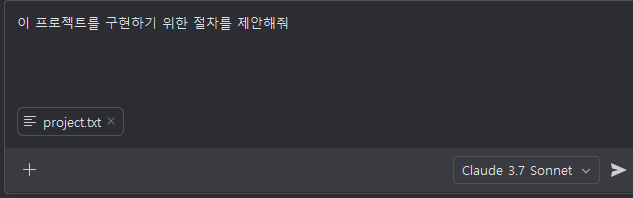
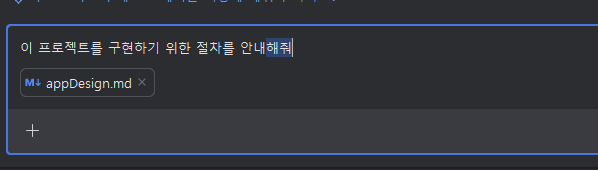
add mcp,,etc

Changed region(s): [[0.0, 0.0588, 1.0, 0.9412], [0.0, 0.0, 1.0, 0.0294]]

diff --git a/Task08/README.md b/Task08/README.md
@@ -1,0 +1,171 @@
+# Task 8: MCP (Model Context Protocol) 활용 실습
+
+## Use case: 
+- Android Studio에서 Model Context Protocol 서버를 설정하고, 실습하는 예제입니다.
+
+## 목표:
+- MCP (Model Context Protocol)의 기능을 이해하고, Android Studio에서 MCP 서버를 설정하여 활용하는 방법을 익힙니다.
+
+## Step 1: MCP (Model Context Protocol) 이해하기
+### MCP란? 
+  - [Model Context Protocol(MCP)](https://modelcontextprotocol.io/introduction)는 AI 모델이 외부 도구, 애플리케이션, 데이터 소스를 탐색하고 상호작용할 수 있도록 표준화된 방법을 제공합니다. VS Code에서 에이전트 모드로 언어 모델에 채팅 프롬프트를 입력하면, 모델은 파일 작업, 데이터베이스 접근, API 호출 등 다양한 도구를 호출하여 요청에 응답할 수 있습니다.
+  - [MCP Specification](https://modelcontextprotocol.io/specification/2025-03-26) 
+
+### MCP 구조 : 클라이언트 - 서버 구조
+  - MCP clients (like VS Code) connect to MCP servers and request actions on behalf of the AI model
+  - MCP servers provide one or more tools that expose specific functionalities through a well-defined interface
+  - The Model Context Protocol (MCP) defines the message format for communication between clients and servers, including tool discovery, invocation, and response handling
+  <img src="./img/01.png" width="500"> <br>
+  <img src="./img/mcp-stack.svg" width="500"> <br>
+
+### MCP서버의 기능
+  - [MCP서버는 아래 3가지 기능을 제공](https://modelcontextprotocol.io/specification/2025-03-26#features)합니다. 
+  - Resources: Context and data, for the user or the AI model to use
+  - Prompts: Templated messages and workflows for users
+  - Tools: Functions for the AI model to execute
+
+### MCP 개발 SDKs
+  - [java](https://modelcontextprotocol.io/sdk/java/mcp-overview/)
+  - [python-sdk](https://github.com/modelcontextprotocol/python-sdk)
+
+### MCP 서버의 예시
+  - [MCP 서버 예시](https://mcpservers.org/) 
+  - [MCP server repository](https://github.com/modelcontextprotocol/servers) <br>
+  
+  에서 다양한 MCP 서버를 확인할 수 있습니다.
+
+
+## Step 2: 안드로이드 스튜디오에서 테스트 MCP 서버 설정 (npm 패키지 설치)
+
+- [안드로이드 스튜디오에서 MCP 서버설정: GitHub도움말](https://docs.github.com/en/enterprise-cloud@latest/copilot/customizing-copilot/extending-copilot-chat-with-mcp?tool=jetbrains)을 참고하여, MCP 서버를 설정합니다.
+
+- 먼저, 안드로이드 스튜디오 우측 하단의 GitHub Copilot 아이콘을 클릭하고, 'Edit Settings'를 선택합니다. 
+  <img src="./img/02.png" width="300"> <br>
+  <img src="./img/03.png" width="500"> <br>
+
+- 'Edit in mcp.json'을 선택하고, 아래과 같이 예시 MCP 서버를 설정합니다. 
+  <img src="./img/04.png" width="300"> <br>
+
+  - 두번째 서버인 "filesystem-vs"는 본인의 현재 작업 디렉토리로로 변경합니다.
+	```json
+	{
+	"servers": {
+		"memory": {
+		"command": "npx",
+		"args": [
+			"-y",
+			"@modelcontextprotocol/server-memory"
+		  ]
+		}, 
+
+		 "filesystem-vs": {
+            "command": "npx",
+            "args": [
+                "-y",
+                "@modelcontextprotocol/server-filesystem",
+                "C:\Users\johnson\AndroidStudioProjects\WordMemoZzang"
+            ]
+        }
+	  }
+	}
+	```
+  <img src="./img/05.png" width="500"> <br>
+- 안드로이드 스튜디오를 재시작 합니다. 
+
+
+## Step 3: MCP 서버 테스트
+
+- 안드로이드 스튜디오가 재시작 되면, Agent모드 채팅 창 하단에 공구 모양을 클릭하여 설정된 기능을 확인합니다. 
+ <img src="./img/06.png" width="400"> <br>
+ <img src="./img/07.png" width="500"> <br>
+
+- 'filesystem-vs'를 테스트 하기 위해 Agent 모드에서 아래와 같이 실행해 봅니다. 
+  - `testmcp.md라는 이름으로 새로운 파일을 생성해줘`
+  - `생성된 `testmcp.md`파일을 `/src` 디렉토리로 옮겨줘` --> MCP tool이 실행됩니다. 
+  <img src="./img/08.png" width="600"> <br>
+  <img src="./img/09.png" width="600"> <br>
+
+## Step 4: Stdio MCP 서버 설정
+- https://github.com/modelcontextprotocol/python-sdk 의 파이썬 예제를 구성하고 stdio MCP 서버를 설정해 봅니다. 
+- uv 매니져 설치
+  - https://docs.astral.sh/uv/#installation
+- uv 프로젝트 시작
+  - `uv init mcp-server-demo`
+  - `cd mcp-server-demo` 로 이동
+- MCP 서버 설치
+  - `uv add "mcp[cli]"`
+
+- server.py 파일을 생성하고 아래와 같이 작성합니다. 
+	```python
+	# server.py
+	from mcp.server.fastmcp import FastMCP
+
+	# Create an MCP server
+	mcp = FastMCP("Demo")
+
+
+	# Add an addition tool
+	@mcp.tool()
+	def add(a: int, b: int) -> int:
+		"""Add two numbers"""
+		return a + b
+
+	if __name__ == "__main__":
+		mcp.run()
+	```
+
+- 안드로이드 스튜디오의 `mcp.json` 파일에 아래와 같이 추가합니다. 
+	```json
+	
+		"mcp-stdio-python": {
+			"type": "stdio",
+            "command": "uv",
+            "args": [
+                "run",
+                "C:\패스\server.py"
+            ]
+        }
+	
+	```
+
+
+- 안드로이드 스튜디오 Agent모드의 MCP Tool에 도구가 추가된 것을 확인합니다. 
+
+## Step 5: Docker 형태의 MCP 서버 설정 (GitHub MCP server)
+ - https://github.com/github/github-mcp-server 저장소의 GitHub MCP 서버를 Docker 형태로 설정합니다.
+ - 이 MCP 서버는 사용자 랩탑에 Docker 엔진이 실행되고 있어야 합니다. 
+ - 저장소 Readme 파일의 Installation 부분에 있는 설정 방법을 `mcp.json` 파일에 추가하여 tool이 추가되는 것을 확인합니다. 
+   ```json
+	"inputs": [
+			{
+			"type": "promptString",
+			"id": "github_token",
+			"description": "GitHub Personal Access Token",
+			"password": true
+			}
+		],
+		"servers": {
+			"github": {
+				"command": "docker",
+				"args": [
+				"run",
+				"-i",
+				"--rm",
+				"-e",
+				"GITHUB_PERSONAL_ACCESS_TOKEN",
+				"ghcr.io/github/github-mcp-server"
+				],
+				"env": {
+				"GITHUB_PERSONAL_ACCESS_TOKEN": "${input:github_token}"
+				}
+			}
+		}
+
+	```
+
+<img src="./img/10.png" width="600"> <br>
+
+
+## 지식 확인
+- MCP의 구조와 기능, 연결 방법은 어떤 것들이 있습니까?
+- MCP 서버의 예제들은 어떤 것들이 있습니까?

diff --git a/README.md b/README.md
@@ -26,7 +26,7 @@
 ## [Task 1](/Task01/README.md): 간단한 함수 및 테스트 코드 제안 받기 (코드완성)
  - GitHub Copilot를 활용하여 간단한 함수와 테스트 코드를 제안받는 실습입니다. 이를 통해 기본적인 Copilot의 기능을 활용하는 방법을 익힙니다. 
  - GitHub Copilot Log를 확인하여, 오픈소스와 매치되는 코드인 경우 레퍼런스 정보를 확인합니다. 
- - VS Code의 Copilot 메뉴에 관한 기본적인 설정들을 변경해 봅니다. 
+ - Android Studio의 Copilot 메뉴에 관한 기본적인 설정들을 변경해 봅니다. 
 
 ## [Task 2](/Task02/README.md): 가위, 바위, 보 게임 만들기 (Copilot Chat사용)
  - GitHub Copilot과 함께 가위, 바위, 보 게임을 만들어 봅니다.
@@ -63,7 +63,11 @@
  - GitHub Copilot Chat을 활용해 문제점을 찾고, 해결 방법을 제안 받습니다..
 
 ## [Task 7](/Task07/README.md): CI/CD 파이프라인 실습
- - GitHub Copilot을 사용해 GitHub Actions의 워크 플로우 생성을을 실습하는 예제입니다
+ - GitHub Copilot을 사용해 GitHub Actions의 워크 플로우 생성을을 실습하는 예제입니다.
+
+## [Task 8](/Task08/README.md): MCP (Model Context Protocol) 활용 실습
+ - Android Studio에서 Model Context Protocol 서버를 설정하고, 활용해 봅니다.
+   
 
 
 

diff --git a/Task03/README.md b/Task03/README.md
@@ -56,7 +56,7 @@
   <img src="img/05.png" width="200">
   <img src="img/06.png" width="500">
 
-- Copilot Chat창에서 '+' 버튼을 눌러, 위 생성된 `project.txt` 텍스트 파일을 추가하고, 이 프로젝트를 구성하기 위한 절차를 제안해 달라고 요청 해봅니다. <br>
+- Copilot Chat창에서 '+' 버튼을 눌러, 위 생성된 `appDesign.md` 텍스트 파일을 추가하고, 이 프로젝트를 구성하기 위한 절차를 제안해 달라고 요청 해봅니다. <br>
   <img src="img/06-1.png" width="400">
   <img src="img/06-2.png" width="400">
 
@@ -66,6 +66,13 @@
   <img src="img/06-5.png" width="400"> <br>
   <img src="img/06-6.png" width="400"> <br>
   <img src="img/06-7.png" width="400"> <br>
+
+- `appDesign.md` 파일을 바탕으로 UML 다이어 그램을 작성해 달라고 요청해 봅니다. <br>
+  <img src="img/06-8.png" width="400"> <br>
+  <img src="img/06-9.png" width="400"> <br>
+
+  - 생성된 내용을 새로운운 puml 파일로 저장하고 확인합니다. <br>
+  <img src="img/06-10.png" width="700"> <br>
 
 ## Step 3: 의존성 설정 
 
